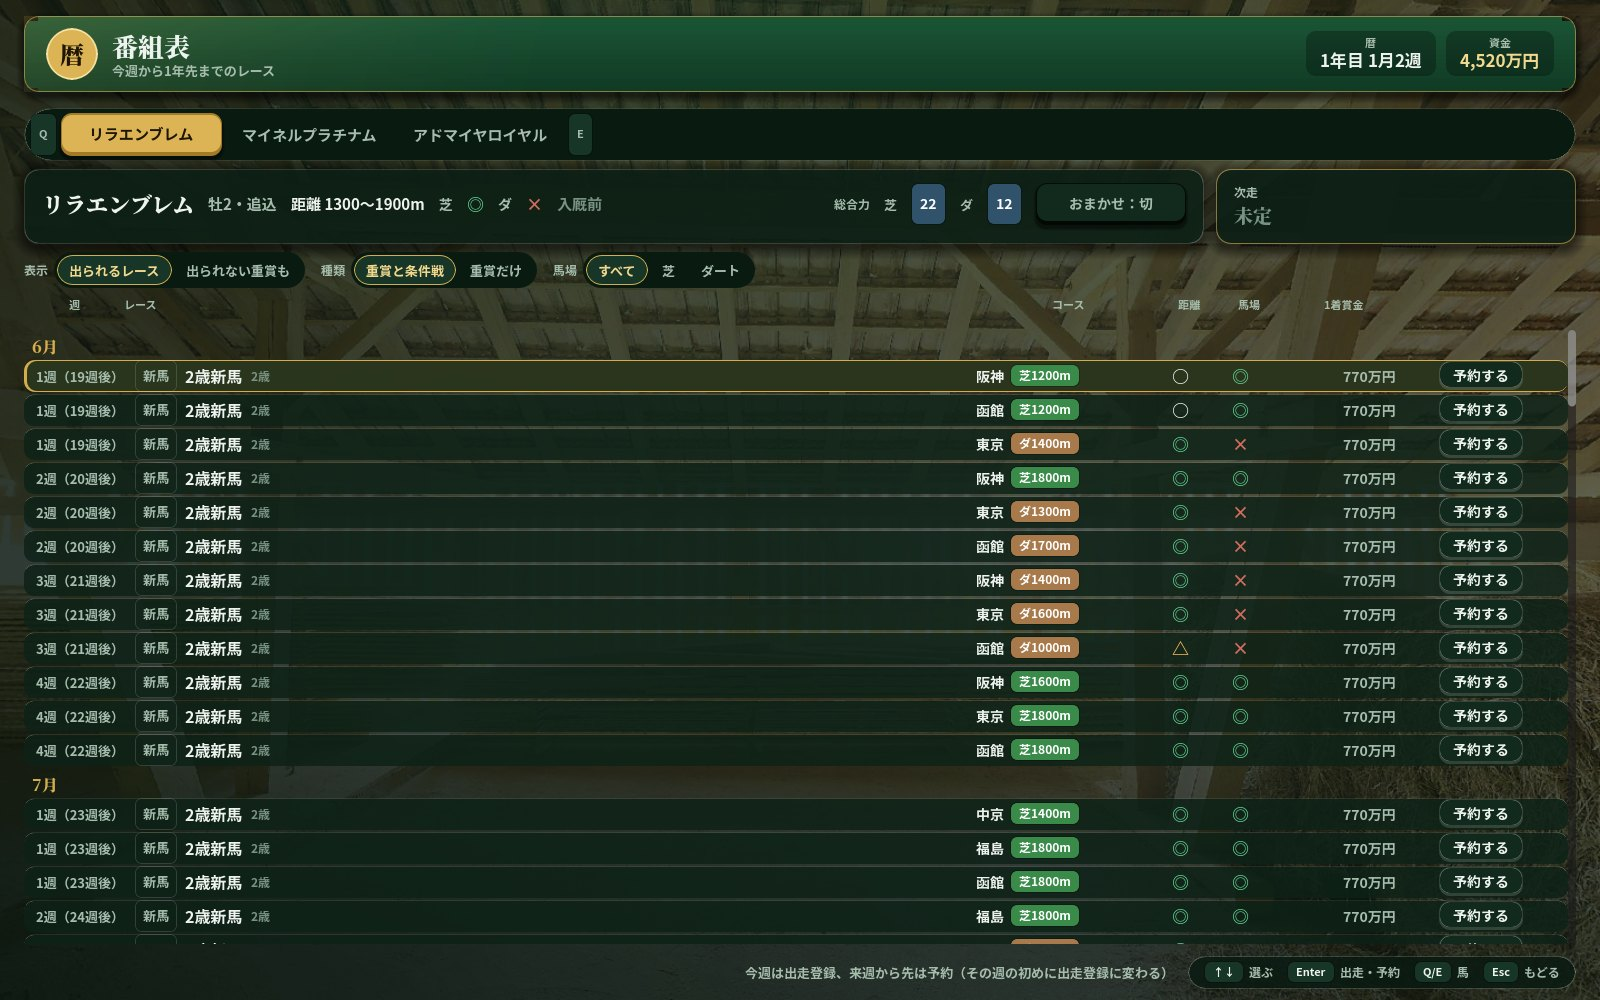
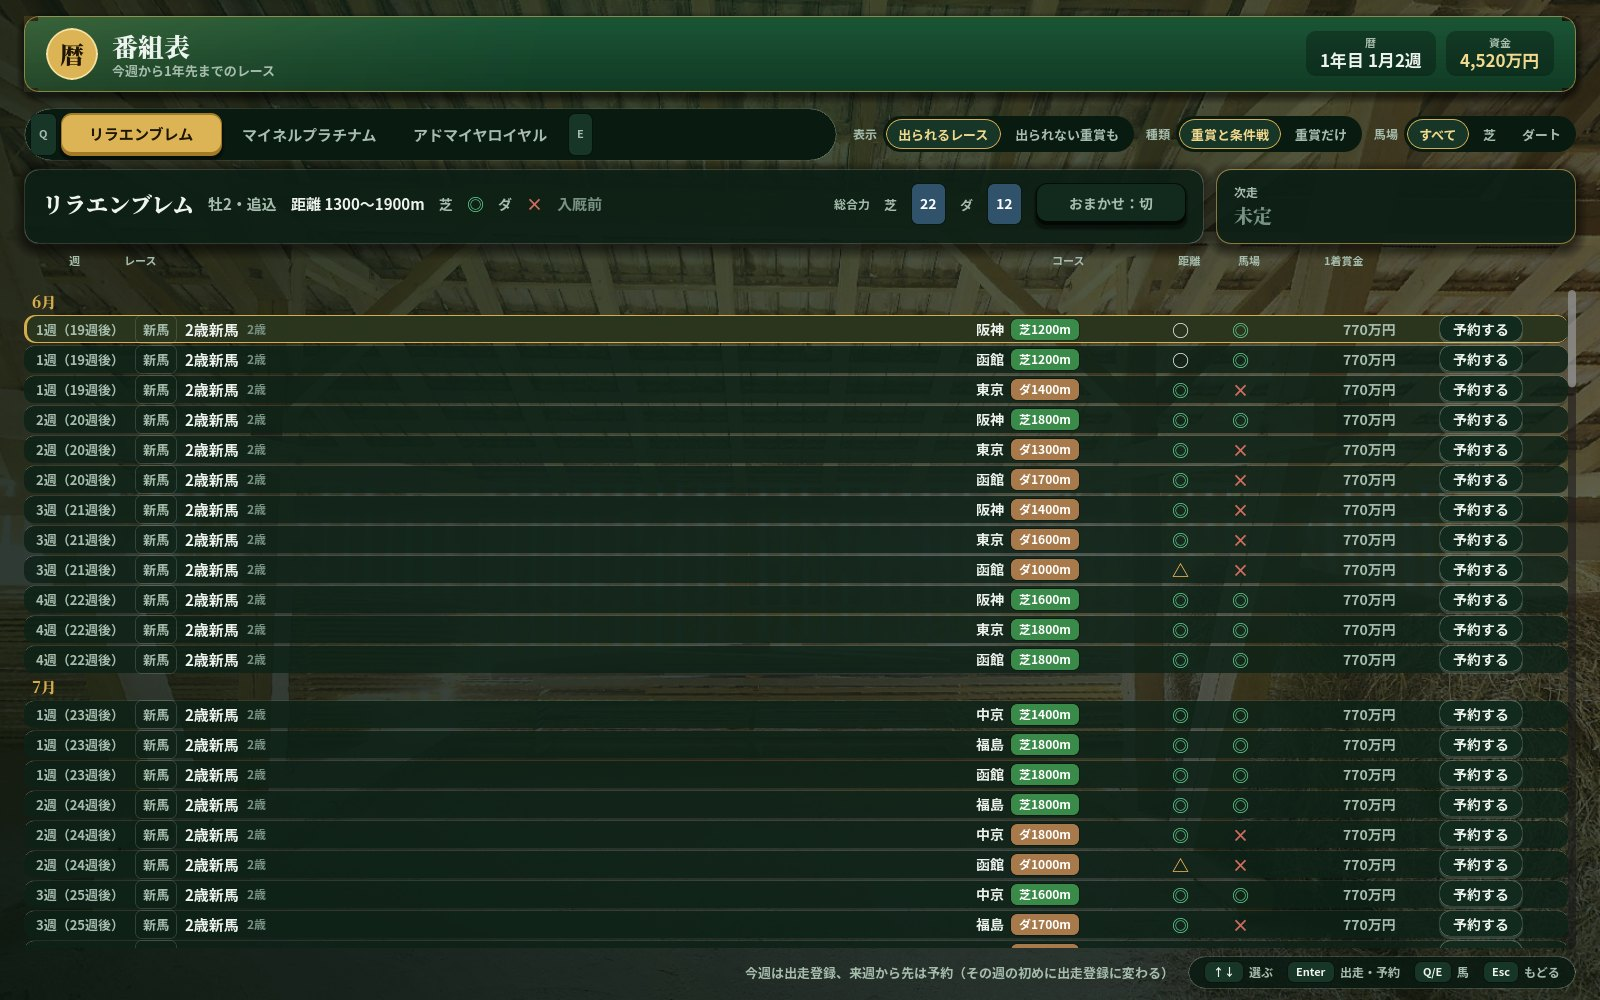
Godot 版：番組表をほぼ2か月分を1画面に・データにリプレイ（自分で乗ったレースを残して中継で見直す）
- 番組表：絞り込みを馬のタブと同じ行へ寄せ、行を 28px に（1画面に20行）
- リプレイ（UiFlow.save_replay）：自分で乗ったレースの描画のコマを 0.2 秒ごとに user://replays へ（セーブとは別・20本まで・お気に入りは消さない）。データの「リプレイ」から騎乗の画面の記録の再生（ViewReplay）で開き、終わるとデータへ戻る
- テスト：test_flow にリプレイが残る・再生の入れ口で読める・お気に入りを足す（88件）
- 採点：番組表 11→12

Claude-Session: https://claude.ai/code/session_012moqMZoGGmPRF5mXBS6M9y

Changed region(s): [[0.0, 0.248, 1.0, 0.961], [0.5, 0.093, 0.9688, 0.186]]

diff --git a/godot/README.md b/godot/README.md
@@ -51,7 +51,9 @@
 | `scenes/week_result.tscn`・`ui/week_result.gd` | 週の結果（騎乗したレースの着順と進上金・着順の表・馬主のひと言・ご褒美・ニュース） |
 | `scenes/stable.tscn`・`ui/stable.gd` | 厩舎（お手馬と牧場の馬のタブ・右の見本・番組表・引退させる・放す。確かめは「やめる」から） |
 | `scenes/breed.tscn`・`ui/breed.gd` | 生産（牧場の牡馬と牝馬から父と母を選び、オリジナルホースを作る） |
-| `scenes/data.tscn`・`ui/data.gd` | データ（わたしの成績・スペシャルホース・トロフィー・リーディング・騎手の表彰・殿堂・コースレコード・GF） |
+| `scenes/data.tscn`・`ui/data.gd` | データ（わたしの成績・スペシャルホース・トロフィー・リーディング・騎手の表彰・殿堂・コースレコード・リプレイ・乗った馬・騎乗の記録・GF） |
+| リプレイ（`UiFlow.save_replay`） | 自分で乗ったレースの描画のコマを 0.2 秒ごとに `user://replays/<id>.json` へ（セーブとは別。20本まで・お気に入りは消さない）。騎乗の画面が記録の再生（`ViewReplay`）で開く |
+| `ui/horse_portrait.gd`（`UiHorsePortrait`） | 見本の馬の絵：3D の馬を小さな窓に立たせる（店・厩舎） |
 | `scenes/owners.tscn`・`ui/owners.gd` | 馬主（7人の好感度・間柄とご褒美・勝負服を着せる・思い出の名馬を受け取る） |
 | `scenes/gf.tscn`・`ui/gf.gd` | グランドフィナーレ（区分のタブ・招待と出す馬・ファンの票の順位） |
 | `ui/celebrate.gd` | 見せ場の後ろの絵（金の光の筋と紙吹雪）。`UiScreen.celebrate`・`owner_scene`（馬主のご褒美の場面）・`confirm`（確かめ）は `ui/screen.gd` |
@@ -85,7 +87,7 @@ sh godot/tools/run_scene.sh res://scenes/home.tscn -- --demo=1 --out=DIR --shot=
 godot --headless --path godot -s res://tools/check_scripts.gd   # 画面のスクリプトがすべて読めるか
 node godot/tools/export_ui_assets.js                          # 画面の背景と馬主の顔をブラウザ版の素材から取り出す
 ```
-- 撮影の見本の追加：`--setup=retire`（牡馬と牝馬を1頭ずつ引退させてから開く）・`--setup=celebrate`（見せ場）・`--setup=scene`（馬主のご褒美の場面）
+- 撮影の見本の追加：`--setup=retire`（牡馬と牝馬を1頭ずつ引退させてから開く）・`--setup=celebrate`（見せ場）・`--setup=scene`（馬主のご褒美の場面）・`--setup=replay`（騎乗の画面で、見本の週に残したリプレイを開く）
 - `--demo[=週]`：決まった種の新しいゲームで、店のいちばん安い馬を3頭買い、週を進めた見本から開く（セーブは書かない）。週の結果は1週を決まった乗り方で乗ってから開く。
 - container で動かすには `apt-get install mesa-vulkan-drivers` と Godot の本体（`GODOT=` で場所を渡す。既定は `/home/user/godot-bin/godot`）が要る。本体はリポジトリに入れない。
 - 撮るときは決まった刻み（1/30 秒か fps）で進めるので、同じ引数なら同じ絵になる。

diff --git a/CHANGELOG.md b/CHANGELOG.md
@@ -1,7 +1,7 @@
 # 更新履歴
 
 ## 次の版
-- Godot 版の馬の店と厩舎の見本に、3Dの馬の立ち姿を出すようにした。データに「乗った馬」「騎乗の記録」を足し、ホームの空いた所に今週の重賞を出す。
+- Godot 版の馬の店と厩舎の見本に、3Dの馬の立ち姿を出すようにした。データに「乗った馬」「騎乗の記録」「リプレイ」（自分で乗ったレースを20本まで残し、中継で見直せる）を足し、ホームの空いた所に今週の重賞を出す。番組表を詰めて、ほぼ2か月分を1画面に出す。
 - 逃げ馬と追込馬に特殊能力を足した。逃げ：息入れ○・二段ロケット・幻惑逃げ（スローで先頭なら後ろの差し・追込が脚を使わされる）・番手×（弱み）。追込：後方待機○・追走○・外回し○・馬群さばき（自分で乗ると横に速く動ける）。どの脚質にも道悪○・外枠○。伝説級の名馬13頭に、その馬だけの固有の能力（金の札★）を付けた。親にすればオリジナルホースに受け継げる
 - Godot 版に厩舎（引退）・生産（オリジナルホース）・データ（成績・スペシャルホース・トロフィー・リーディング・表彰・殿堂・コースレコード）・馬主（好感度とご褒美・勝負服）・グランドフィナーレ（招待と出す馬・ファンの票の順位）の画面を足した。G1・トロフィー・スペシャルホースを破ったときの見せ場と、馬主のご褒美の場面も出る。出走表のスペシャルホースに印を付け、ホームにスペシャルホースのリーチを出す。
 - Godot 版で騎手のゲームの週の流れを遊べるようにした：タイトル（はじめから・つづきから）→ ホーム（暦・資金・お手馬・馬主の騎乗依頼）→ 番組表（出走・予約）・馬の店 → 出走表 → 騎乗（その週の本当のレース）→ 週の結果（着順・進上金・馬主のひと言）→ 次の週。週を締めるたびに自動でセーブする。

diff --git a/docs/UI.md b/docs/UI.md
@@ -247,13 +247,13 @@ JS 版の関数名（`UI.kit`）と、Godot で作るときの形。
 |---|---|---|---|---|---|---|---|---|
 | タイトル | 2 | 2 | 2 | 2 | 2 | 2 | 12 | |
 | ホーム | 2 | 2 | 2 | 2 | 2 | 2 | 12 | （お手馬が少ないときは今週の重賞で下を埋めた） |
-| 番組表 | 2 | 2 | 2 | 2 | 2 | 1 | 11 | 行を 32px に詰めて1画面に17行（1か月と少し）。条件戦が週に3つあると2か月分は入らない。絞り込みの札を馬の要点と同じ行に置けば2か月に近づく |
+| 番組表 | 2 | 2 | 2 | 2 | 2 | 2 | 12 | （絞り込みを馬のタブと同じ行へ寄せ、行を 28px に。1画面に20行・ほぼ2か月） |
 | 馬の店 | 2 | 2 | 2 | 2 | 2 | 2 | 12 | （見本に3Dの馬の立ち姿を出した。`ui/horse_portrait.gd`） |
 | 出走表（週のレース） | 2 | 2 | 2 | 2 | 2 | 2 | 12 | |
 | 週の結果 | 2 | 2 | 2 | 2 | 2 | 2 | 12 | （着順の表は鞍の数で10・5・3頭に） |
 | 厩舎 | 2 | 2 | 2 | 2 | 2 | 2 | 12 | （見本に3Dの馬の立ち姿） |
 | 生産 | 2 | 2 | 2 | 2 | 2 | 2 | 12 | （父と母がそろうと「作る」へカーソルが移る） |
-| データ | 2 | 1 | 2 | 2 | 2 | 2 | 11 | 主な操作が無い画面（見るだけ）。リプレイのタブはまだ（乗った馬・騎乗の記録は足した） |
+| データ | 2 | 1 | 2 | 2 | 2 | 2 | 11 | 主な操作が無い画面（見るだけ）。リプレイ（自分で乗ったレースを20本・中継で見直す）・乗った馬・騎乗の記録を足した |
 | 馬主 | 2 | 2 | 2 | 2 | 2 | 2 | 12 | |
 | グランドフィナーレ | 2 | 1 | 2 | 2 | 2 | 2 | 11 | 招待の無い時期は主な操作が無い |
 | 見せ場・ご褒美の場面（小窓） | 2 | 2 | 2 | 2 | 2 | 2 | 12 | |
